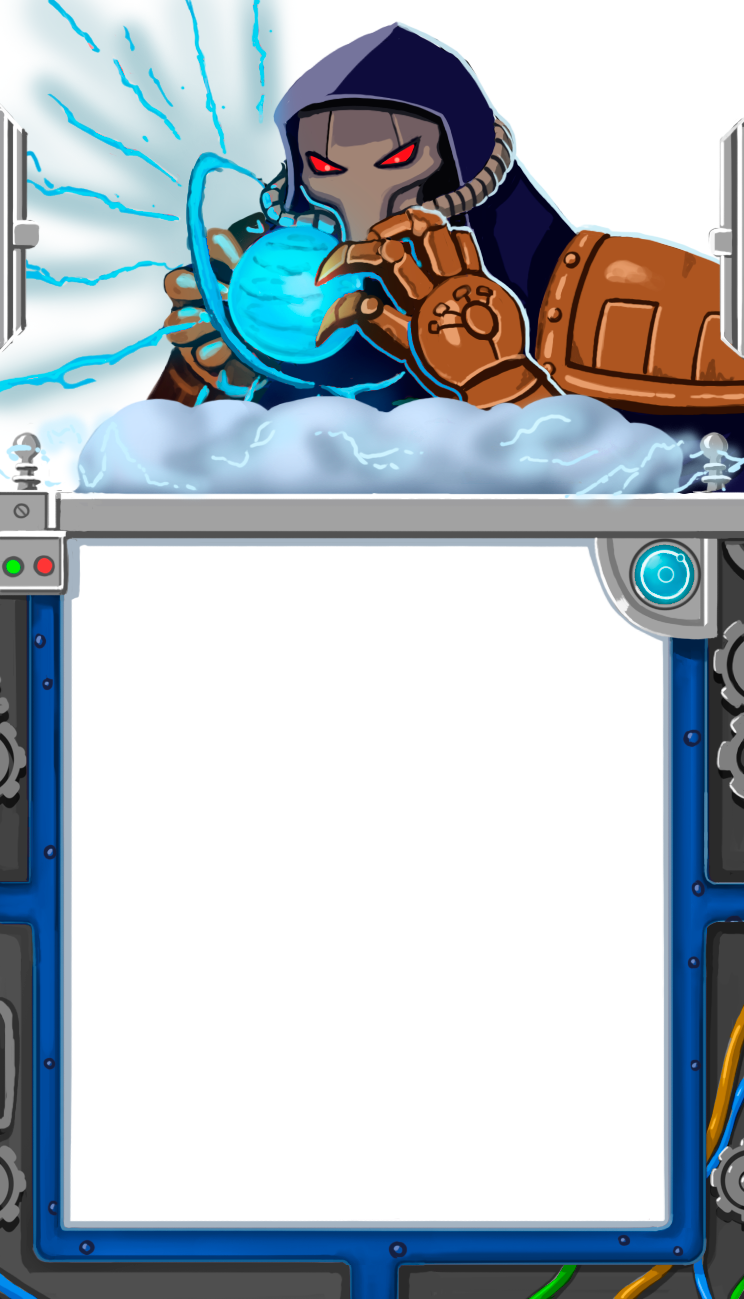
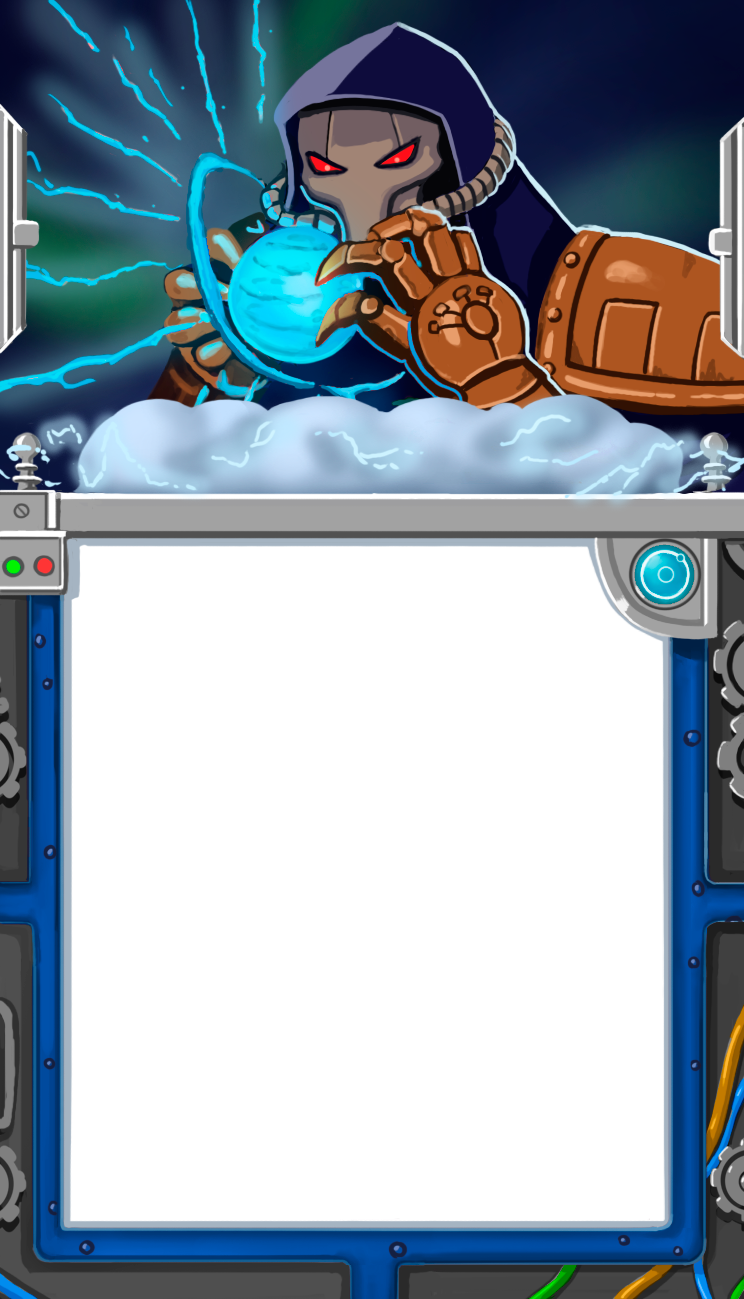
Removed custom background option on spells

Changed region(s): [[0.0, 0.0, 1.0, 0.4003]]

diff --git a/src/components/cards/templates/Spell.tsx b/src/components/cards/templates/Spell.tsx
@@ -28,10 +28,10 @@ function Spell({ className, id, card }: SpellProps) {
         className
       )}
       style={{
-        backgroundImage: `url(${card.cardImage}),url(/cards/spell_bkg.png)`,
-        backgroundSize: "cover, 100% 41%",
-        backgroundPosition: "center,top",
-        backgroundRepeat: "no-repeat,no-repeat",
+        backgroundImage: `url(${card.cardImage})`,
+        backgroundSize: "cover",
+        backgroundPosition: "center",
+        backgroundRepeat: "no-repeat",
       }}
     >
       <div

diff --git a/src/components/pages/rules/LevelUpGameMobile.tsx b/src/components/pages/rules/LevelUpGameMobile.tsx
@@ -110,7 +110,7 @@ function LevelUpGameMobile({ h3Style }: LevelUpGameMobileProps) {
                     alt="crossed out card"
                     width={100}
                     height={100}
-                    className="h-20 sm:h-36 w-auto rounded-sm animate-jump-in"
+                    className="h-20 sm:h-36 w-auto rounded-sm animate-jump-in aspect-card"
                   />
                 </div>
               );
